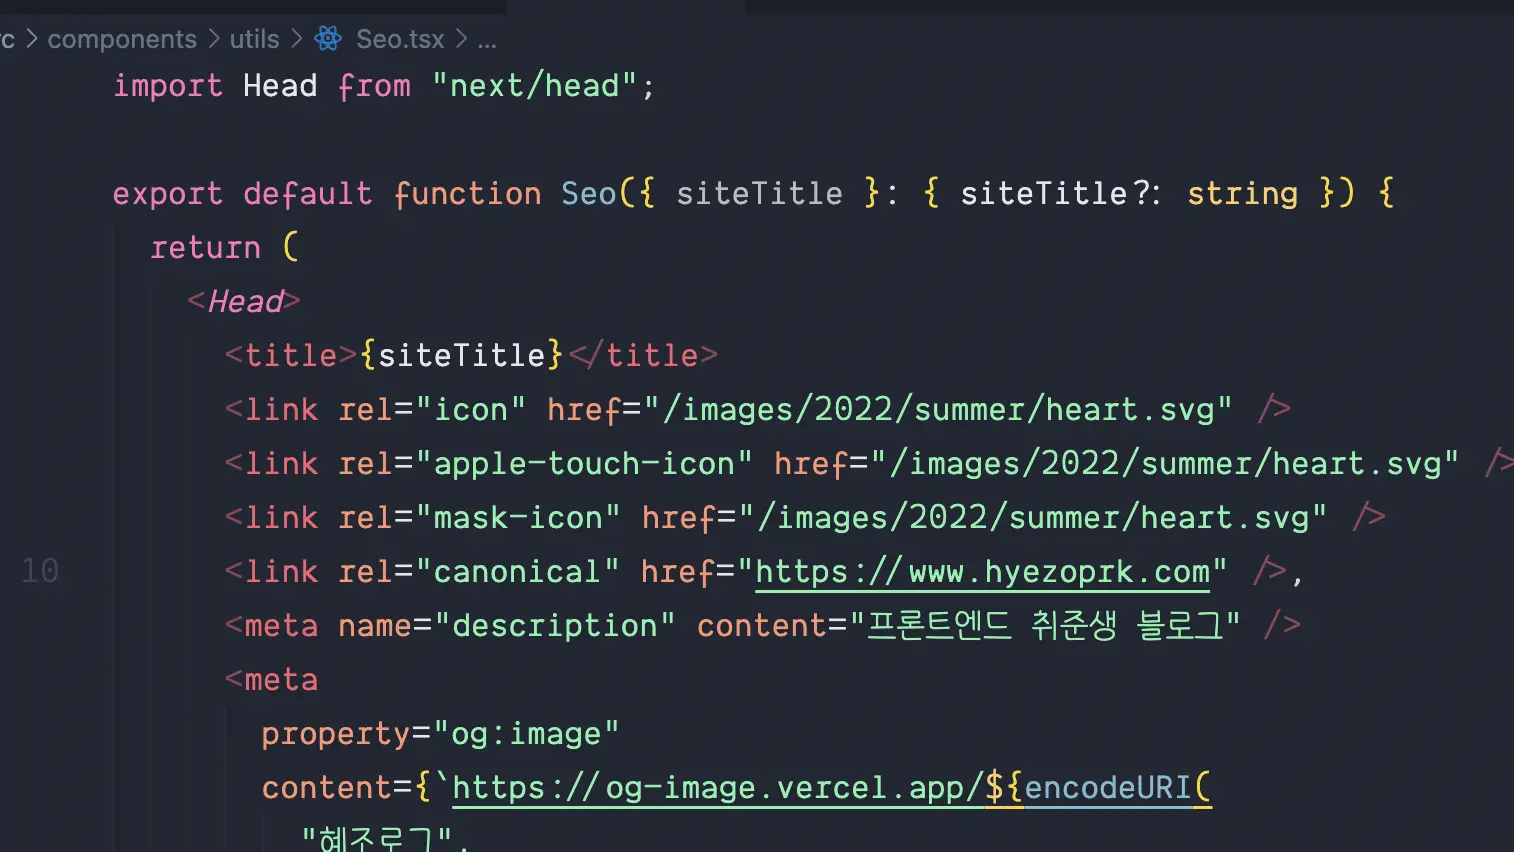
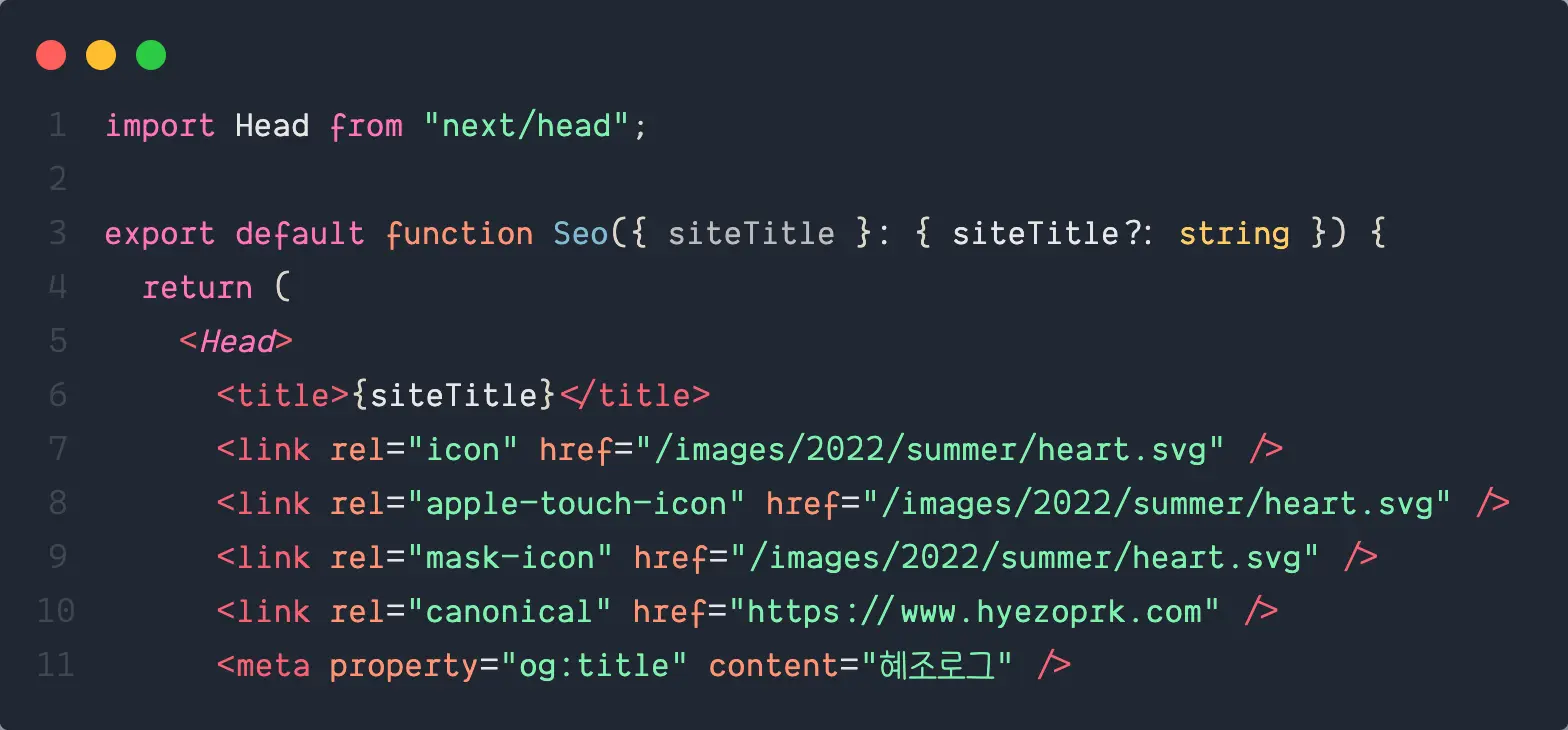
edit: 포스트 내용 추가 및 수정

diff --git a/src/components/utils/Seo.tsx b/src/components/utils/Seo.tsx
@@ -7,14 +7,7 @@ export default function Seo({ siteTitle }: { siteTitle?: string }) {
       <link rel="icon" href="/images/2022/summer/heart.svg" />
       <link rel="apple-touch-icon" href="/images/2022/summer/heart.svg" />
       <link rel="mask-icon" href="/images/2022/summer/heart.svg" />
-      <link rel="canonical" href="https://www.hyezoprk.com" />,
-      <meta name="description" content="프론트엔드 취준생 블로그" />
-      <meta
-        property="og:image"
-        content={`https://og-image.vercel.app/${encodeURI(
-          "혜조로그",
-        )}.png?theme=light&md=0&fontSize=75px&images=https%3A%2F%2Fassets.vercel.com%2Fimage%2Fupload%2Ffront%2Fassets%2Fdesign%2Fnextjs-black-logo.svg`}
-      />
+      <link rel="canonical" href="https://www.hyezoprk.com" />
       <meta property="og:title" content="혜조로그" />
       <meta property="og:description" content="코딩과 일기가 뒤죽박죽 섞여 있어요" />
       <meta property="og:image" content="/images/2022/summer/heart.svg" />
@@ -23,6 +16,13 @@ export default function Seo({ siteTitle }: { siteTitle?: string }) {
       <meta property="og:type" content="website" />
       <meta name="twitter:card" content="summary_large_image" />
       <meta name="robots" content="all" />
+      <meta name="description" content="프론트엔드 취준생 블로그" />
+      {/* <meta
+        property="og:image"
+        content={`https://og-image.vercel.app/${encodeURI(
+          "혜조로그",
+        )}.png?theme=light&md=0&fontSize=75px&images=https%3A%2F%2Fassets.vercel.com%2Fimage%2Fupload%2Ffront%2Fassets%2Fdesign%2Fnextjs-black-logo.svg`}
+      /> */}
     </Head>
   );
 }
